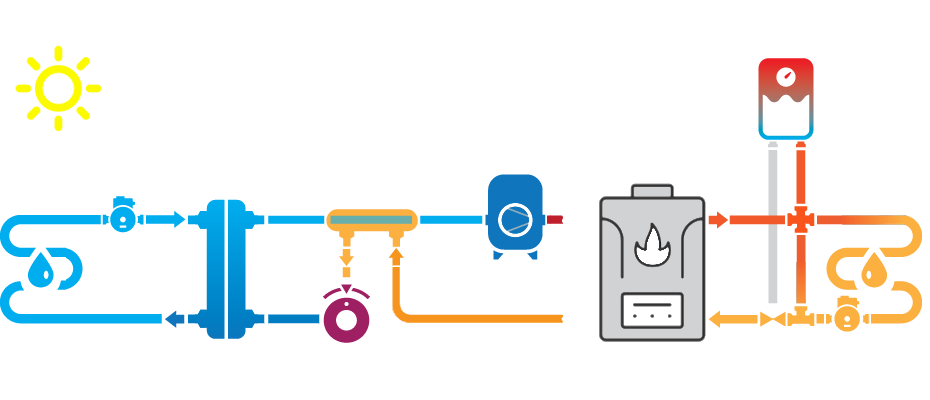
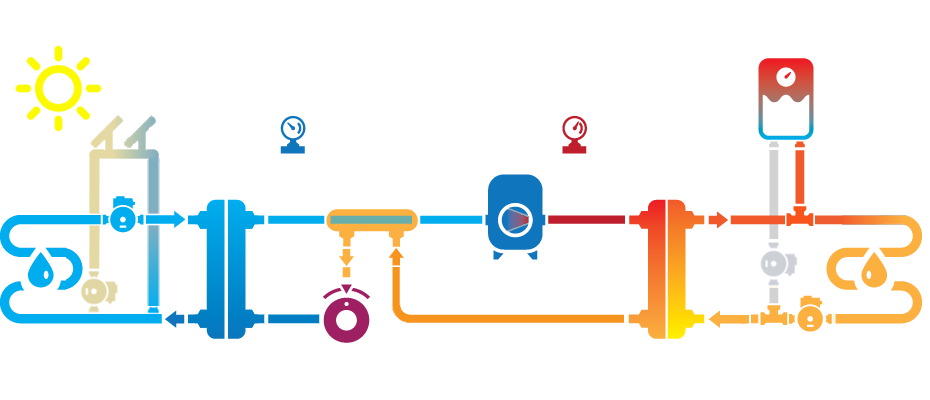
единая веб схема для ТН и котла

diff --git a/ControlHeatPump/Web/Main/style.css b/ControlHeatPump/Web/Main/style.css
@@ -1,3 +1,4 @@
+@import url('stylep.css');
 html, body {font-size:12px;padding:0;margin:0; font-family: Arial,'Helvetica Neue', Helvetica, sans-serif; }
 .content {-webkit-transition-property: margin; transition-property: margin; -webkit-transition-duration: 0.4s; transition-duration: 0.4s; -webkit-transition-timing-function: ease-out; transition-timing-function: ease-out;background: -webkit-linear-gradient(top, rgb(87, 129, 158) 0%, rgb(166, 190, 200) 38%, rgb(215, 205, 177) 90%, rgb(176, 161, 150) 100%);background: -o-linear-gradient(top, rgb(87, 129, 158) 0%, rgb(166, 190, 200) 38%, rgb(215, 205, 177) 90%, rgb(176, 161, 150) 100%);background: -ms-linear-gradient(top, rgb(87, 129, 158) 0%, rgb(166, 190, 200) 38%, rgb(215, 205, 177) 90%, rgb(176, 161, 150) 100%);background: -moz-linear-gradient(top, rgb(87, 129, 158) 0%, rgb(166, 190, 200) 38%, rgb(215, 205, 177) 90%, rgb(176, 161, 150) 100%);background: linear-gradient(to bottom, rgb(87, 129, 158) 0%, rgb(166, 190, 200) 38%, rgb(215, 205, 177) 90%, rgb(176, 161, 150) 100%);}
 .menu{width:220px;margin-left:0px; position: absolute; z-index: 500; left: 0;background: -webkit-linear-gradient(85deg, rgba(25, 29, 35, 0.85) 0%, rgba(47, 44, 42, 0.85) 100%);background: -o-linear-gradient(85deg, rgba(25, 29, 35, 0.85) 0%, rgba(47, 44, 42, 0.85) 100%);background: -ms-linear-gradient(85deg, rgba(25, 29, 35, 0.85) 0%, rgba(47, 44, 42, 0.85) 100%);background: -moz-linear-gradient(85deg, rgba(25, 29, 35, 0.85) 0%, rgba(47, 44, 42, 0.85) 100%);background: linear-gradient(5deg, rgba(25, 29, 35, 0.85) 0%, rgba(47, 44, 42, 0.85) 100%);}
@@ -114,36 +115,6 @@ body.test #get_tblrelay span{display:none}
 .visualization span.charsw{background:transparent;border-color:transparent;color:red;font-size:22px!important}
 .visualization span:after{content:"°"}
 .visualization span#get_press-pcon:after,.visualization span#get_press-peva:after {content:""}
-.visualization #get_temp-tevain		{margin-top:335px;margin-left:260px}
-.visualization #get_temp-tevaoutg	{margin-top:335px;margin-left:140px}
-.visualization #get_temp-tevaing	{margin-top:185px;margin-left:140px}
-.visualization #get_temp-tevaout	{margin-top:230px;margin-left:260px}
-.visualization #get_temp-tcompin	{margin-top:185px;margin-left:420px}
-.visualization #get_temp-tconout	{margin-top:330px;margin-left:540px}
-.visualization #get_temp-tconing	{margin-top:335px;margin-left:810px}
-.visualization #get_temp-tconoutg	{margin-top:185px;margin-left:810px}
-.visualization #get_temp-theater	{margin-top:335px;margin-left:710px}
-.visualization #get_temp-tcomp		{margin-top:151px;margin-left:487px}
-.visualization #get_pfc-info1		{margin-top:283px;margin-left:487px}.visualization #get_pfc-info1:after{content:"";}
-.visualization #get_pfc-cfc			{margin-top:260px;margin-left:487px}.visualization #get_pfc-cfc:after{content:""}
-.visualization #get_temp-tboiler	{margin-top:34px;margin-left:758px}
-.visualization #get_boiler-ct		{margin-top:18px;margin-left:748px;width:65px;text-align:center;white-space:normal}
-.visualization #get_press-peva		{margin-top:158px;margin-left:260px;width:56px;text-align:center;white-space:normal}
-.visualization #get_press-pcon		{margin-top:158px;margin-left:547px;width:56px;text-align:center;white-space:normal}
-.visualization #get_overheat		{margin-top:353px;margin-left:370px;text-align:center}
-.visualization #get_peev-pospp		{margin-top:330px;margin-left:370px;text-align:center}.visualization #get_peev-pospp:after{content:"";}
-.visualization #get_flow-floweva	{margin-top:238px;margin-left:103px}.visualization #get_flow-floweva:after{margin-left:3px;content:"м³ч";}
-.visualization #get_flow-flowcon	{margin-top:226px;margin-left:810px}.visualization #get_flow-flowcon:after{margin-left:3px;content:"м³ч";}
-.visualization #get_overcool		{margin-top:353px;margin-left:540px}.visualization #get_overcool:before{content:"Δ"}
-.visualization #get_relay-rboiler	{margin-top:102px;margin-left:743px}.visualization #get_relay-rboiler:after{content:""}
-.visualization #get_relay-rsun		{margin-top:73px;margin-left:15px}.visualization #get_relay-rsun:after{content:""}
-.visualization #get_temp-tsun		{margin-top:85px;margin-left:115px}
-.visualization #get_wr-3			{margin-top:20px;margin-left:31px;border-color:yellow}.visualization #get_wr-3:after{content:""}
[2 lines of base64/hex data omitted]
-.visualization #get_ht-m			{margin-top:345px;margin-left:625px}.visualization #get_ht-m:after{content:""}
-.visualization #get_ht-tf			{margin-top:185px;margin-left:710px}
[1 lines of base64/hex data omitted]
 
 .cd-accordion-menu input[type=checkbox] {position: absolute; opacity: 0;}
 .cd-accordion-menu label, .cd-accordion-menu a {position: relative;	display: block;}

diff --git a/ControlHeatPump/Web/Main/stylep.css b/ControlHeatPump/Web/Main/stylep.css
@@ -1,0 +1,31 @@
+.visualization #get_temp-tevain		{margin-top:340px;margin-left:205px}
+.visualization #get_temp-tevaoutg	{margin-top:340px;margin-left:100px}
+.visualization #get_temp-tevaing	{margin-top:167px;margin-left:100px}
+.visualization #get_temp-tevaout	{margin-top:234px;margin-left:205px}
+.visualization #get_temp-tcompin	{margin-top:184px;margin-left:352px}
+.visualization #get_temp-tconout	{margin-top:330px;margin-left:510px}
+.visualization #get_overcool		{margin-top:353px;margin-left:510px}.visualization #get_overcool:before{content:"Δ"}
+.visualization #get_temp-tconing	{margin-top:335px;margin-left:697px}
+.visualization #get_temp-tconoutg	{margin-top:188px;margin-left:748px}
+.visualization #get_temp-tcomp		{margin-top:150px;margin-left:415px}
+.visualization #get_pfc-info1		{margin-top:283px;margin-left:414px}.visualization #get_pfc-info1:after{content:"";}
+.visualization #get_pfc-cfc			{margin-top:260px;margin-left:414px}.visualization #get_pfc-cfc:after{content:""}
+.visualization #get_temp-tboiler	{margin-top:34px;margin-left:758px}
+.visualization #get_boiler-ct		{margin-top:18px;margin-left:748px;width:65px;text-align:center;white-space:normal}
+.visualization #get_press-peva		{margin-top:167px;margin-left:205px;width:56px;text-align:center;white-space:normal}
+.visualization #get_press-pcon		{margin-top:167px;margin-left:473px;width:56px;text-align:center;white-space:normal}
+.visualization #get_overheat		{margin-top:353px;margin-left:320px;text-align:center}
+.visualization #get_peev-pospp		{margin-top:330px;margin-left:320px;text-align:center}.visualization #get_peev-pospp:after{content:"";}
+.visualization #get_flow-floweva	{margin-top:234px;margin-left:80px}.visualization #get_flow-floweva:after{margin-left:3px;content:"м³ч";}
+.visualization #get_flow-flowcon	{margin-top:335px;margin-left:775px}.visualization #get_flow-flowcon:after{margin-left:3px;content:"м³ч";}
+.visualization #get_relay-rboiler	{margin-top:102px;margin-left:743px}.visualization #get_relay-rboiler:after{content:""}
+.visualization #get_relay-rsun		{margin-top:73px;margin-left:15px}.visualization #get_relay-rsun:after{content:""}
+.visualization #get_temp-tsun		{margin-top:78px;margin-left:115px}
+.visualization #get_wr-3			{margin-top:20px;margin-left:31px;border-color:yellow}.visualization #get_wr-3:after{content:""}
[2 lines of base64/hex data omitted]
+.visualization #get_ht-m			{margin-top:175px;margin-left:567px}.visualization #get_ht-m:after{content:""}
+.visualization #get_ht-tf			{margin-top:45px;margin-left:652px}
+.visualization #get_temp-theater	{margin-top:90px;margin-left:652px}
[2 lines of base64/hex data omitted]

diff --git a/ControlHeatPump/Web/Main/plan.html b/ControlHeatPump/Web/Main/plan.html
@@ -7,32 +7,28 @@ td, th { font-size: 1em; border: 0; text-align: left; }
 </style>
 <script src='scripts.js'></script>
 <script>
-HeaterSchemeId = "6"; // Котел (номер файла схемы)
-SchemeOld = "";
 urlupdate = 2000;
+var Scheme = "";
+var SchemeOld = "";
 window.onload = function() {
 		loadParam("hide_tro_ei,hide_sun,get_tblTemp1");
-		updateParam("get_MODES,get_MODEW,get_HT(ON),get_pFC(cFC),get_pEEV(POSpp),get_Temp(TBOILER),get_Temp(TOUT),get_Temp(TEVAOUT),get_Temp(TIN),get_Temp(TEVAING),get_Temp(TEVAOUTG),get_Temp(TCONING),get_Temp(TCONOUTG),get_Boiler(CT),get_Relay(RPUMPI),get_relayOut,get_Flow(FLOWEVA),get_Flow(FLOWCON),get_Power220,get_fullCOP,get_PowerGEO,get_PowerCO,get_Relay(RBOILER),get_Relay(RSUN),get_Temp(TSUN),get_TrgT,get_oHP(BP),get_Prof(ASM),get_WR(3),get_Relay(R4WAY),get_Temp(THEATER)");
+		updateParam("get_MODES,get_MODEW,get_HT(ON),get_pFC(cFC),get_pEEV(POSpp),get_Temp(TBOILER),get_Temp(TOUT),get_Temp(TEVAOUT),get_Temp(TIN),get_Temp(TEVAING),get_Temp(TEVAOUTG),get_Temp(TCONING),get_Temp(TCONOUTG),get_Boiler(CT),get_Relay(RPUMPI),get_relayOut,get_Flow(FLOWEVA),get_Flow(FLOWCON),get_Power220,get_fullCOP,get_PowerGEO,get_PowerCO,get_Relay(RBOILER),get_Relay(RSUN),get_Temp(TSUN),get_TrgT,get_oHP(BP),get_Prof(ASM),get_WR(3),get_Relay(R4WAY),get_Relay(RH_3WAY),get_Temp(THEATER),get_HT(TF),get_HT(M),get_Relay(R3WAY),get_Temp(TCOMP)");
 		updateParamPeriod("get_error", 10000);
 };
 function loadParam_after(paramid) {
 	if(paramid.indexOf("get_MODES")!==-1) {
+		var _load_less = Scheme.charAt(1) === "-";
 		if(SchemeOld !== Scheme || SchemeOld === "") {
 			document.getElementsByClassName("visualization")[0].style ="background:url(\"plan" + Scheme + ".png\")";
-			if(Scheme == HeaterSchemeId) {
+			if(_load_less) {
 				document.getElementById("_HP").style = "display:none";
-				document.getElementById("_Heater").style = "display:default";
+				_load_all = true;
 			} else {
 				document.getElementById("_HP").style = "display:default";
-				document.getElementById("_Heater").style = "display:none";
 			}
 		}
 		SchemeOld = Scheme;
-		if(Scheme === HeaterSchemeId) {
-			loadParam("get_HT(TF),get_HT(M),get_Relay(R3WAY)");
-		} else {
-            loadParam("get_pFC(INFO1),get_OverHeat,get_Press(PEVA),get_Press(PCON),get_Temp(TCOMPIN),get_Temp(TEVAIN),get_Temp(TCOMP),get_Temp(TCONOUT),get_OverCool");
-		}
+		if(!_load_less) loadParam("get_pFC(INFO1),get_OverHeat,get_Press(PEVA),get_Press(PCON),get_Temp(TCOMPIN),get_Temp(TEVAIN),get_Temp(TCOMP),get_Temp(TCONOUT),get_OverCool");
 	}
 }
 function set_bTIN(f,T) {
@@ -45,7 +41,6 @@ function set_bTIN(f,T) {
 <div class="content">
 <div class="visualization">
 <div id="_HP" style="display:none">
-	<span id="get_temp-tcomp" class="red">-.-</span>
 	<div name="hide_tro_ei">
 		<span id="get_temp-tcompin" class="blue">-.-</span>
 	</div>
@@ -58,11 +53,7 @@ function set_bTIN(f,T) {
 	<span id="get_press-peva" class="blue">-.-</span>
 	<span id="get_pfc-info1" class="blue">-</span>
 </div>
-<div id="_Heater" style="display:none">
-	<span  id="get_ht-tf" class="black">-.-</span>
-	<span  id="get_ht-m" class="black">-</span>
-	<div id="get_relay-r3way" style="display:none"></div>
-</div>
+	<span id="get_temp-tcomp" class="red">-.-</span>
 	<span id="get_boiler-ct" class="red">-.-</span>
 	<span id="get_temp-tevaoutg" class="blue">-.-</span>
 	<span id="get_temp-tevaing" class="blue">-.-</span>
@@ -80,7 +71,11 @@ function set_bTIN(f,T) {
 </div>
 	<span id="get_wr-3"></span>
 	<div id="get_ht-on" style="display:none"></div>
+	<span  id="get_ht-tf" class="red">-.-</span>
+	<span  id="get_ht-m" class="black">-</span>
 	<div id="get_relay-r4way" style="display:none"></div>
+	<div id="get_relay-r3way" style="display:none"></div>
+	<div id="get_relay-rh_3way" style="display:none"></div>
 </div>
 <table>
 	<tr><td width="20%" style="font-weight: bold;" nowrap>Режим работы<span id="get_prof-asm-hide"> (авто)</span>:</td><td width="16%"><span id="get_modew">-</span></td><td width="16%" style="font-weight: bold;">На улице:</td><td width="16%"><span id="get_temp-tout">-</span>&deg;</td><td width="16%" style="font-weight: bold;">В доме:</td><td width="16%"><span id="get_temp-tin">-</span>&deg;</td></tr>

diff --git a/ControlHeatPump/Control/Config.h b/ControlHeatPump/Control/Config.h
@@ -5164,7 +5164,7 @@ const char *noteTemp[] = {"Температура улицы",
 	#define USE_SERIAL4							// Использовать порт Serial4 на D52(RXD2) и A11/D65(TXD2) +(X42.1-3.3V, X43.3-GND)
 	#ifdef USE_HEATER							// Используется Котел с встроенным насосом
 		#define HEATER_MODBUS_ADDR		240		// Адаптер Opentherm - RS485(Modbus), по умолчанию 0xF0 или 0x1B
-		#define HP_SCHEME_HEATER		6		// Номер схемы который выводится на веб-морде при активном Котле
+		//#define HP_SCHEME_HEATER		5		// Номер схемы который выводится на веб-морде при активном Котле
 		#define HEATER_MODBUS_PORT		Serial4	// Управление через Modbus (Адаптер ectoControl OpenTherm RS485)
 		#define MODBUS_HEATER_DEDICATED			// Выделенная RS485 шина под котел (RS485_2)
 		#define HEATER_MODBUS_SPEED		19200